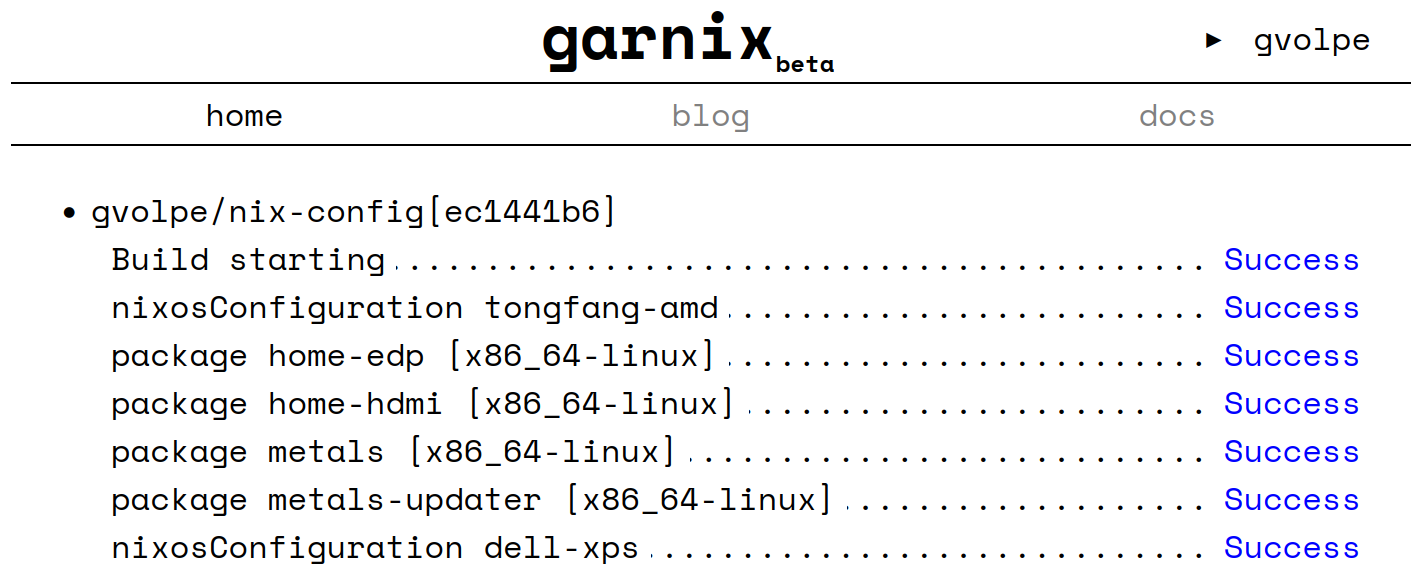
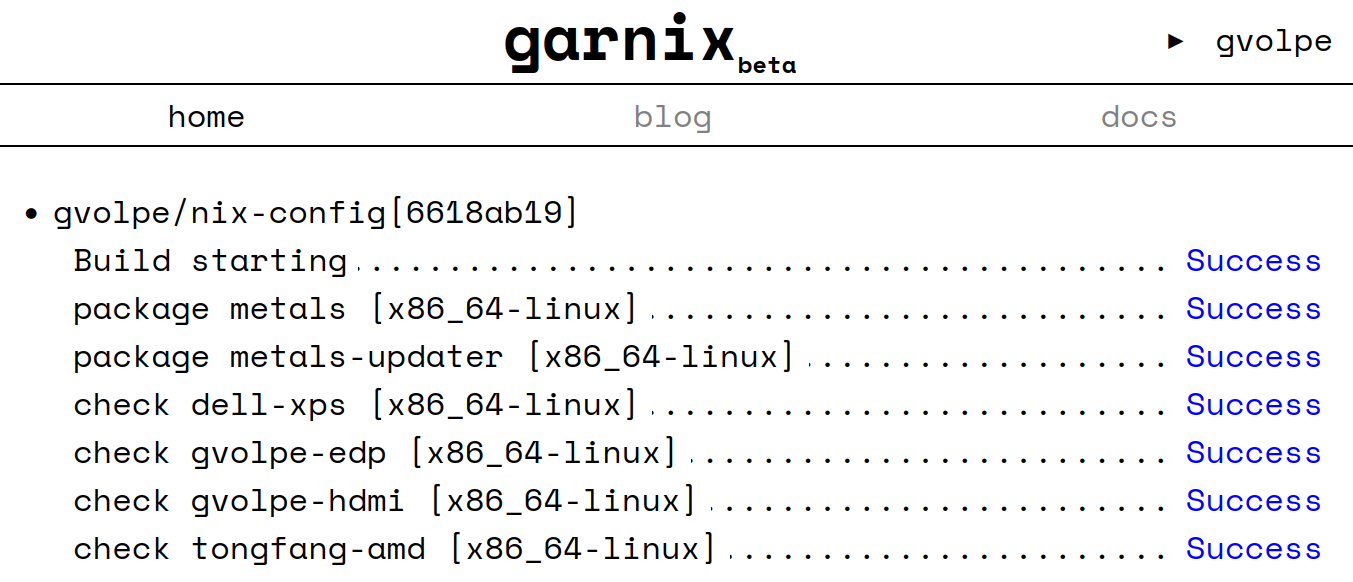
update post with latest changes

diff --git a/_posts/2023-02-07-garnix.md b/_posts/2023-02-07-garnix.md
@@ -18,7 +18,7 @@ Once you install the Garnix CI app in your Github account and enable the reposit
 
 ![app](../images/garnix-app.png)
 
-The `homeConfigurations` output is [not yet supported](https://github.com/garnix-io/issues/issues/24), but it's in the plans. A current workaround is to expose these as `packages` instead, as I have in my flake's outputs.
+The `homeConfigurations` output is [not yet supported](https://github.com/garnix-io/issues/issues/24), but it's in the plans. A current workaround is to expose these as `packages` or `checks` instead, as I have in my flake's outputs.
 
 {% highlight nix %}
 {
@@ -26,19 +26,28 @@ The `homeConfigurations` output is [not yet supported](https://github.com/garnix
     let
       system = "x86_64-linux";
       ci = import ./outputs/ci.nix { inherit inputs system; };
-      home = import ./outputs/home-conf.nix { inherit inputs system; };
     in
-    {
-      homeConfigurations = home;
+    rec {
+      homeConfigurations =
+        import ./outputs/home-conf.nix { inherit inputs system; };
 
       nixosConfigurations =
         import ./outputs/nixos-conf.nix { inherit inputs system; };
 
       packages.${system} = {
         inherit (ci) metals metals-updater;
-        home-edp = home.gvolpe-edp.activationPackage;
-        home-hdmi = home.gvolpe-hdmi.activationPackage;
       };
+
+      checks.${system} =
+        let
+          os = inputs.nixpkgs.lib.mapAttrs
+            (_: c: c.config.system.build.toplevel)
+            nixosConfigurations;
+          hm = inputs.nixpkgs.lib.mapAttrs
+            (_: c: c.activationPackage)
+            homeConfigurations;
+        in
+        os // hm;
     };
 }
 {% endhighlight %}
@@ -48,15 +57,19 @@ The downside of doing this is that building the Home Manager configurations requ
 {% highlight bash %}
 $ nix flake show --allow-import-from-derivation
 git+file:///home/gvolpe/workspace/nix-config?ref=...
+├───checks
+│   └───x86_64-linux
+│       ├───dell-xps: derivation 'nixos-system-dell-xps-15-9560-23.05.20230202.a100acd'
+│       ├───gvolpe-edp: derivation 'home-manager-generation'
+│       ├───gvolpe-hdmi: derivation 'home-manager-generation'
+│       └───tongfang-amd: derivation 'nixos-system-tongfang-amd-23.05.20230202.a100acd'
 ├───homeConfigurations: unknown
 ├───nixosConfigurations
 │   ├───dell-xps: NixOS configuration
 │   └───tongfang-amd: NixOS configuration
 └───packages
     └───x86_64-linux
-        ├───home-edp: package 'home-manager-generation'
-        ├───home-hdmi: package 'home-manager-generation'
-        ├───metals: package 'metals-0.11.10+111-59a1b932-SNAPSHOT'
+        ├───metals: package 'metals-0.11.10+117-476976c1-SNAPSHOT'
         └───metals-updater: package 'metals-updater-script'
 {% endhighlight %}
 
@@ -86,17 +99,10 @@ First of all, it gets all the attribute names of the supported outputs, e.g.
 
 {% highlight bash %}
 $ nix eval .#packages.x86_64-linux --apply builtins.attrNames --json
-["home-edp","home-hdmi","metals","metals-updater"]
+["metals","metals-updater"]
 
-$ nix eval .#nixosConfigurations --apply builtins.attrNames --json
-["dell-xps","tongfang-amd"]
-{% endhighlight %}
-
-According to this, supporting `homeConfigurations` should not be that hard, but there may be more to it.
-
-{% highlight bash %}
-$ nix eval .#homeConfigurations --apply builtins.attrNames --json
-["gvolpe-edp","gvolpe-hdmi"]
+$ nix eval .#checks.x86_64-linux --apply builtins.attrNames --json
+["dell-xps","gvolpe-edp","gvolpe-hdmi","tongfang-amd"]
 {% endhighlight %}
 
 Next, it builds every attribute previously collected in *parallel*.
@@ -105,8 +111,7 @@ Next, it builds every attribute previously collected in *parallel*.
 $ nix build .#metals --json
 [{"drvPath":"/nix/store/4kql56jcvr6q0fihw2wqq56gqpf6h9gl-metals-0.11.10+111-59a1b932-SNAPSHOT.drv","outputs":{"out":"/nix/store/q65x0gng6ni18hfyfbshzr910vlw28rp-metals-0.11.10+111-59a1b932-SNAPSHOT"},"startTime":0,"stopTime":0}]
 
-$ nix build .#home-hdmi --json
-[{"drvPath":"/nix/store/wb31m320kq32b6wvclvdwnq16kgblwz0-home-manager-generation.drv","outputs":{"out":"/nix/store/1xhxwpcsg97rgmp1hanr8lzszn3hhfd2-home-manager-generation"},"startTime":0,"stopTime":0}]
+$ nix flake check # don't really know what happens after this
 {% endhighlight %}
 
 Finally, it uses the derivation (`drvPath`) of the outputs to query the nix log (or other heuristics when not available). I don't know exactly what this means, but by running the following command: 
